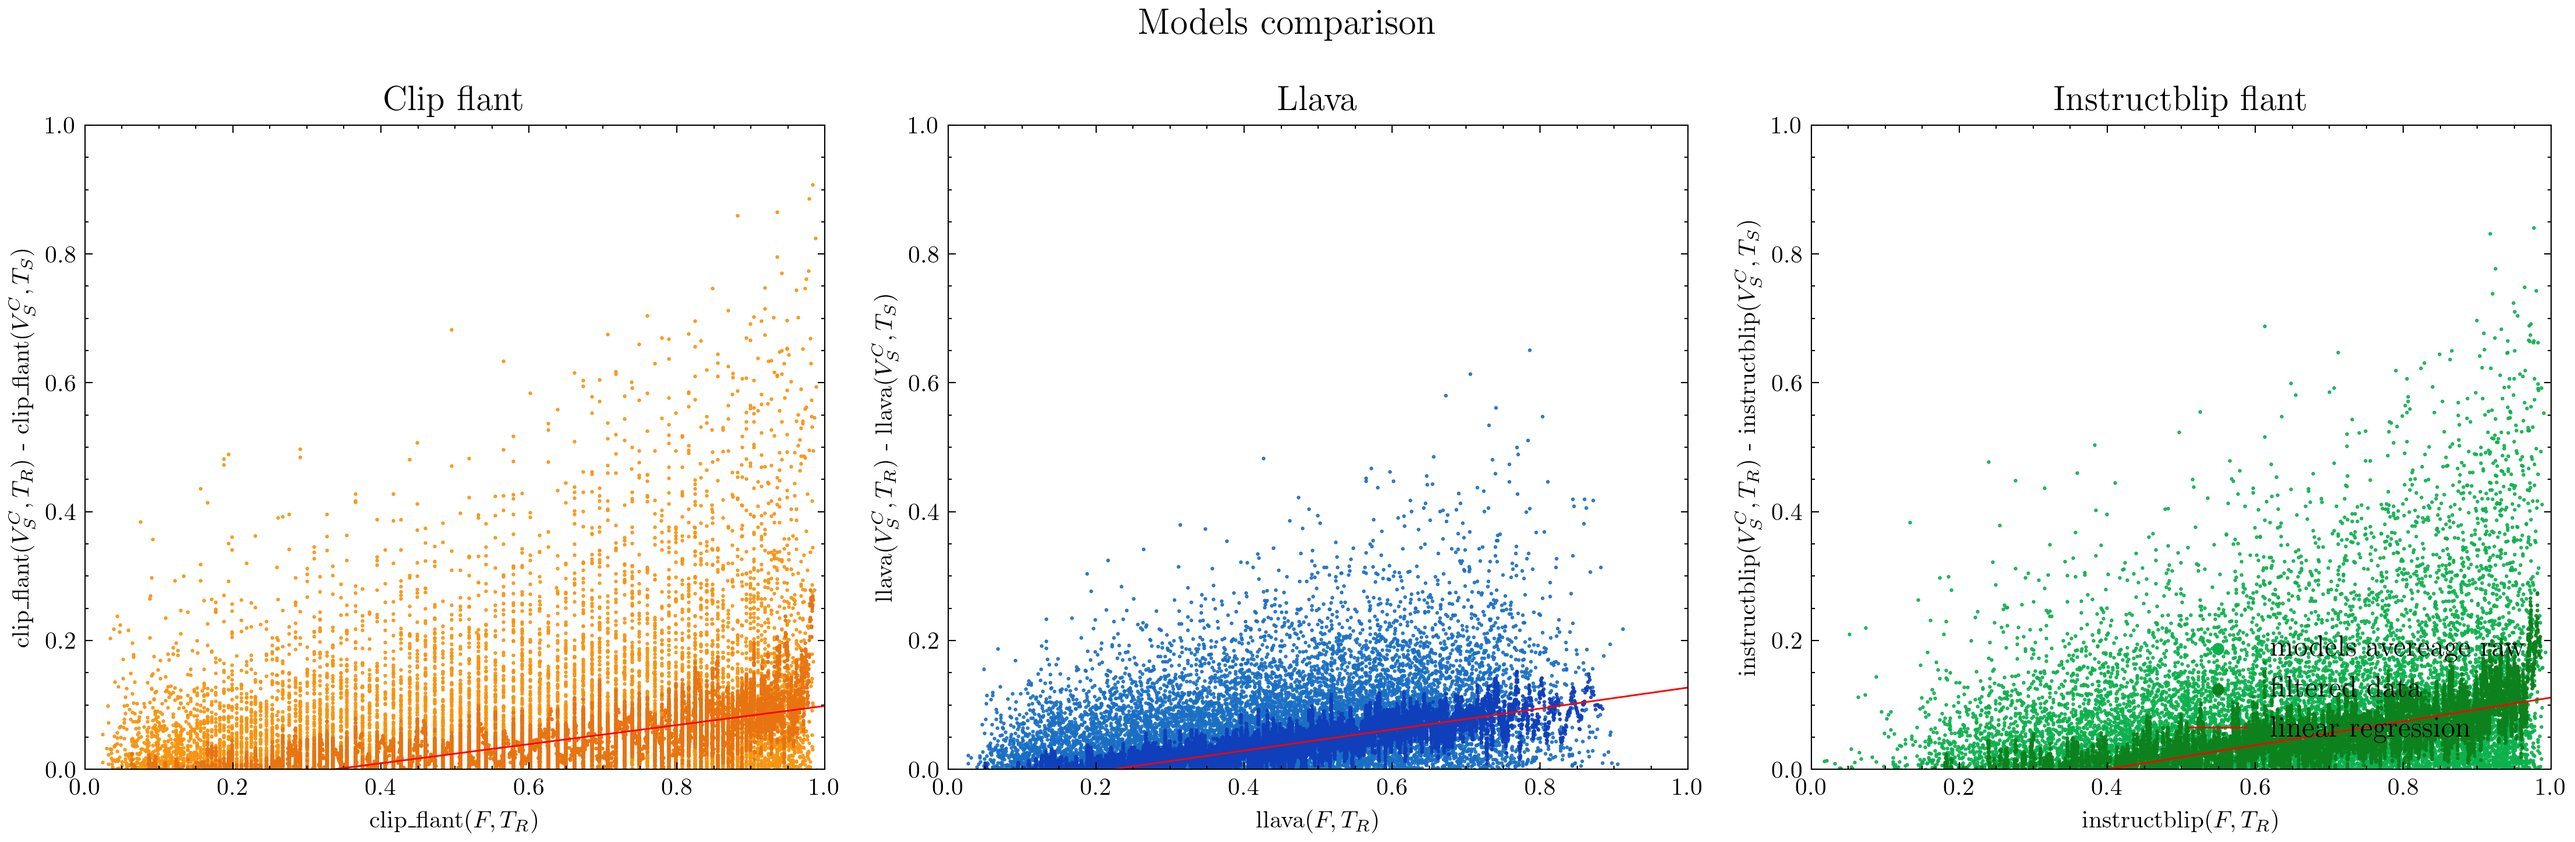
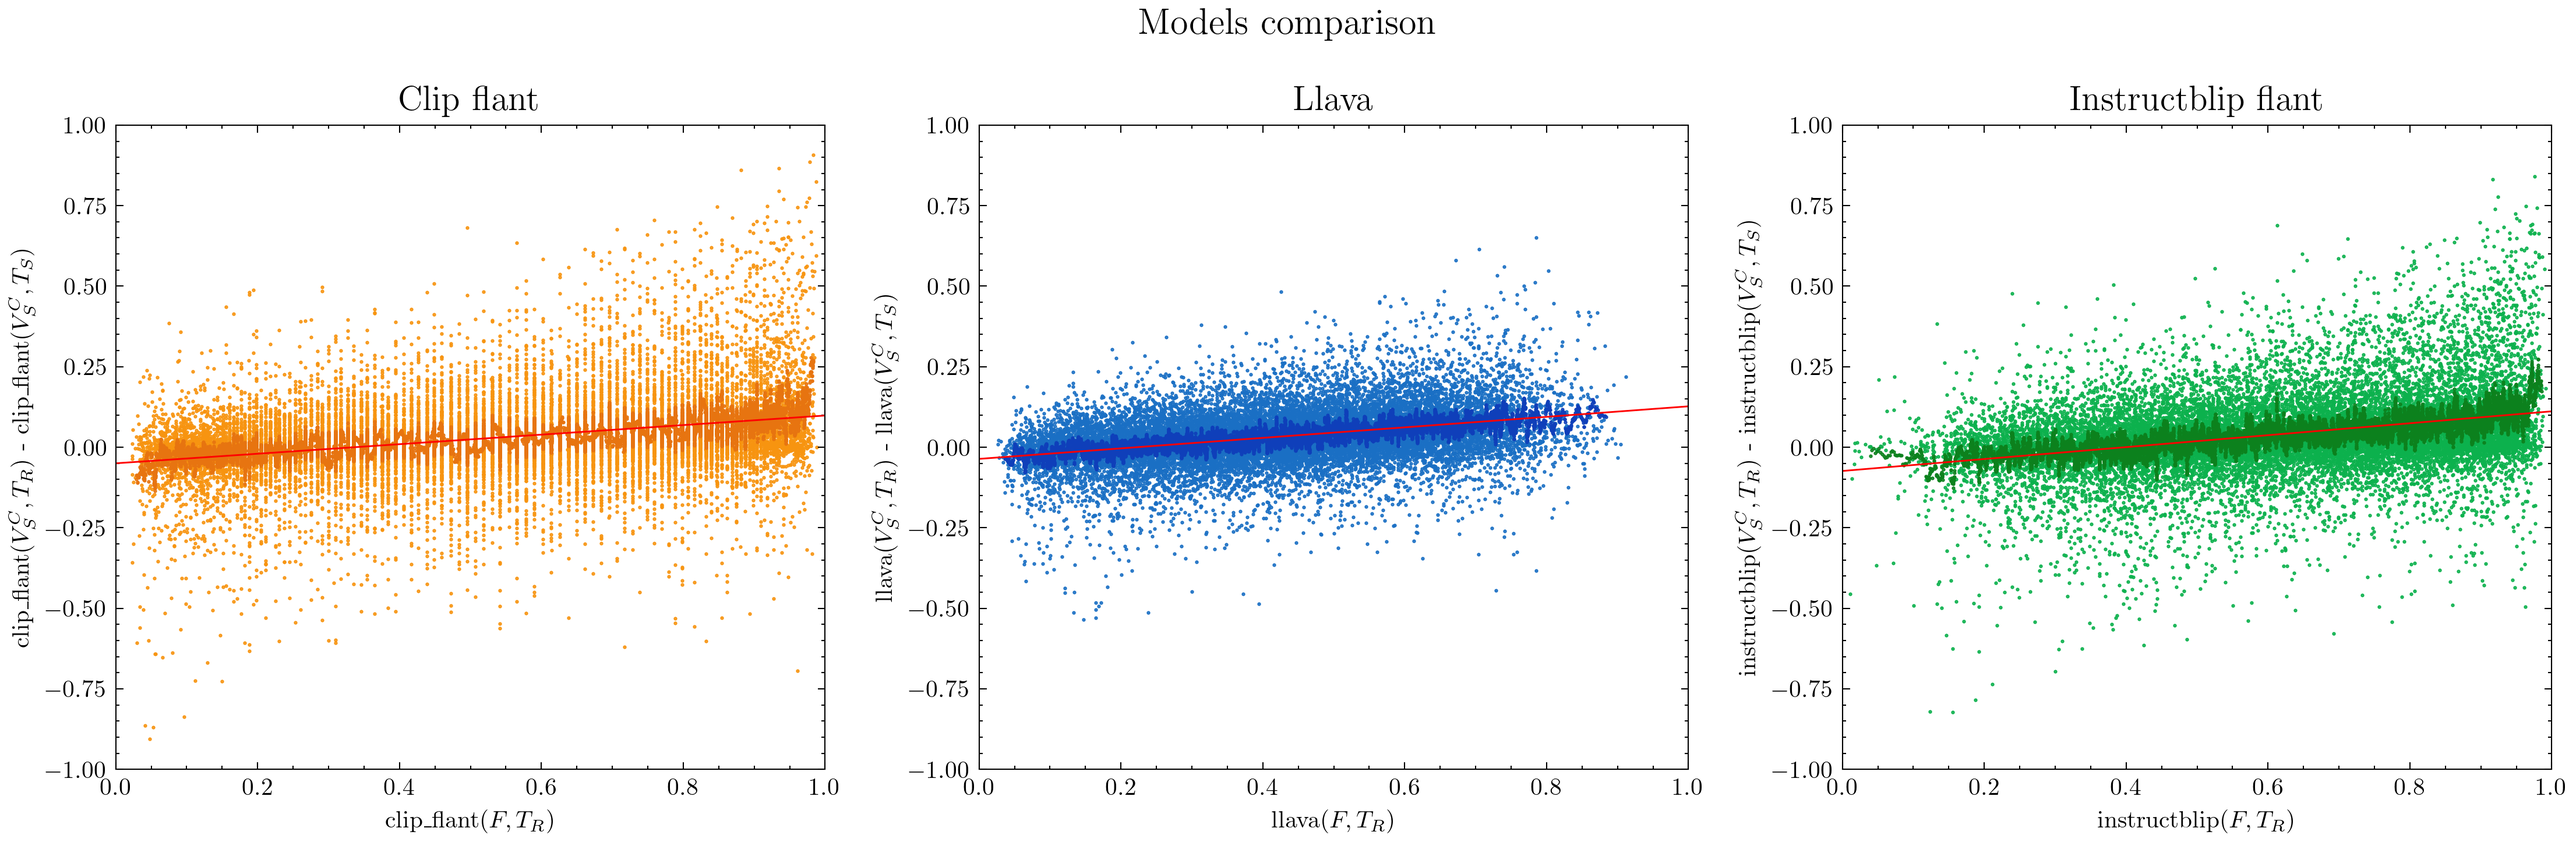
altre appendici yay

diff --git a/plottings/PerLaTesi/Appendici/D/D4.py b/plottings/PerLaTesi/Appendici/D/D4.py
@@ -27,6 +27,10 @@ df[f'D(mean(Vu,R),mean(Vu,S))'] = df[f'mean(Vu,R)'] - df[f'mean(Vu,S)']
 df[f'D(mean(Vu,S),mean(Vc,S))'] = df[f'mean(Vu,S)'] - df[f'mean(Vc,S)']
 df[f'D(mean(Vu,R),mean(Vc,R))'] = df[f'mean(Vu,R)'] - df[f'mean(Vc,R)']
 
+df[f'D(clip_flant(Vc_mean,R),clip_flant(Vc_mean,S))'] = df[f'clip_flant(Vc_mean,R)'] - df[f'clip_flant(Vc_mean,S)']
+df[f'D(llava(Vc_mean,R),llava(Vc_mean,S))'] = df[f'llava(Vc_mean,R)'] - df[f'llava(Vc_mean,S)']
+df[f'D(instructblip(Vc_mean,R),instructblip(Vc_mean,S))'] = df[f'instructblip(Vc_mean,R)'] - df[f'instructblip(Vc_mean,S)']
+
 def filter(df,val,x,y):
     a = pd.DataFrame()
     c = 0
@@ -43,10 +47,9 @@ def filter(df,val,x,y):
             a = pd.concat([a, pd.DataFrame([{x:  b1/val,y: b2/val}])],ignore_index=True)
     return a
 
-a = filter(df,23,'clip_flant(F,R)','clip_flant(Vc_mean,S)')
-b = filter(df,23,'llava(F,R)','llava(Vc_mean,S)')
-c = filter(df,23,'instructblip(F,R)','instructblip(Vc_mean,S)')
-
+a = filter(df,23,'clip_flant(F,S)','D(clip_flant(Vc_mean,R),clip_flant(Vc_mean,S))')
+b = filter(df,23,'llava(F,S)','D(llava(Vc_mean,R),llava(Vc_mean,S))')
+c = filter(df,23,'instructblip(F,S)','D(instructblip(Vc_mean,R),instructblip(Vc_mean,S))')
 size = 1
 transparency = 1  # df[y]
 
@@ -55,46 +58,44 @@ plt.rcParams.update({'font.size': 12})
 
 fig.suptitle('Models comparison', fontsize=15)
 
-ax[0].scatter(df['clip_flant(F,R)'], df['clip_flant(Vc_mean,S)'], c='#f79410',marker='.', s=size, alpha=transparency, label='models avereage raw')
-ax[0].scatter(a['clip_flant(F,R)'], a['clip_flant(Vc_mean,S)'], c='#e77410',marker='.', s=size, alpha=transparency, label='filtered data')
-ax[0].set_xlabel('clip_flant($F,T_R$)')
-ax[0].set_ylabel('clip_flant($V_S^C,T_S$)')
+ax[0].scatter(df['clip_flant(F,S)'], df['D(clip_flant(Vc_mean,R),clip_flant(Vc_mean,S))'], c='#f79410',marker='.', s=size, alpha=transparency, label='models avereage raw')
+ax[0].scatter(a['clip_flant(F,S)'], a['D(clip_flant(Vc_mean,R),clip_flant(Vc_mean,S))'], c='#e77410',marker='.', s=size, alpha=transparency, label='filtered data')
+ax[0].set_xlabel('clip_flant($F,T_S$)')
+ax[0].set_ylabel('clip_flant($V_S^C,T_R$) - clip_flant($V_S^C,T_S$)')
 ax[0].set_title('Clip flant')
 ax[0].set_xlim([0,1])
-ax[0].set_ylim([0,1])
-z = np.polyfit(df['clip_flant(F,R)'], df['clip_flant(Vc_mean,S)'], 1)
+ax[0].set_ylim([-1,1])
+z = np.polyfit(df['clip_flant(F,S)'], df['D(clip_flant(Vc_mean,R),clip_flant(Vc_mean,S))'], 1)
 p = np.poly1d(z)
 xs = np.linspace(0, 1, 10000)
 ax[0].plot(xs, p(xs), "r-",linewidth=0.7, label='linear regression')
-ax[0].legend(markerscale=8, ncol=1, loc=2)
 
-ax[1].scatter(df['llava(F,R)'], df['llava(Vc_mean,S)'], c='#1a6fc4',marker='.', s=size, alpha=transparency, label='models avereage raw')
-ax[1].scatter(b['llava(F,R)'], b['llava(Vc_mean,S)'], c='#0f3fba',marker='.', s=size, alpha=transparency, label='filtered data')
-ax[1].set_xlabel('llava($F,T_R$)')
-ax[1].set_ylabel('llava($V_S^C,T_S$)')
+
+ax[1].scatter(df['llava(F,S)'], df['D(llava(Vc_mean,R),llava(Vc_mean,S))'], c='#1a6fc4',marker='.', s=size, alpha=transparency, label='models avereage raw')
+ax[1].scatter(b['llava(F,S)'], b['D(llava(Vc_mean,R),llava(Vc_mean,S))'], c='#0f3fba',marker='.', s=size, alpha=transparency, label='filtered data')
+ax[1].set_xlabel('llava($F,T_S$)')
+ax[1].set_ylabel('llava($V_S^C,T_R$) - llava($V_S^C,T_S$)')
 ax[1].set_title('Llava')
 ax[1].set_xlim([0,1])
-ax[1].set_ylim([0,1])
-z = np.polyfit(df['llava(F,R)'], df['llava(Vc_mean,S)'], 1)
+ax[1].set_ylim([-1,1])
+z = np.polyfit(df['llava(F,S)'], df['D(llava(Vc_mean,R),llava(Vc_mean,S))'], 1)
 p = np.poly1d(z)
 ax[1].plot(xs, p(xs), "r-",linewidth=0.7, label='linear regression')
-ax[1].legend(markerscale=8, ncol=1, loc=2)
 
-ax[2].scatter(df['instructblip(F,R)'], df['instructblip(Vc_mean,S)'], c='#0cb14d',marker='.', s=size, alpha=transparency, label='models avereage raw')
-ax[2].scatter(c['instructblip(F,R)'], c['instructblip(Vc_mean,S)'], c='#0c811d',marker='.', s=size, alpha=transparency, label='filtered data')
-ax[2].set_xlabel('instructblip($F,T_R$)')
-ax[2].set_ylabel('instructblip($V_S^C,T_S$)')
+ax[2].scatter(df['instructblip(F,S)'], df['D(instructblip(Vc_mean,R),instructblip(Vc_mean,S))'], c='#0cb14d',marker='.', s=size, alpha=transparency, label='models avereage raw')
+ax[2].scatter(c['instructblip(F,S)'], c['D(instructblip(Vc_mean,R),instructblip(Vc_mean,S))'], c='#0c811d',marker='.', s=size, alpha=transparency, label='filtered data')
+ax[2].set_xlabel('instructblip($F,T_S$)')
+ax[2].set_ylabel('instructblip($V_S^C,T_R$) - instructblip($V_S^C,T_S$)')
 ax[2].set_title('Instructblip flant')
 ax[2].set_xlim([0,1])
-ax[2].set_ylim([0,1])
-z = np.polyfit(df['instructblip(F,R)'], df['instructblip(Vc_mean,S)'], 1)
+ax[2].set_ylim([-1,1])
+z = np.polyfit(df['instructblip(F,S)'], df['D(instructblip(Vc_mean,R),instructblip(Vc_mean,S))'], 1)
 p = np.poly1d(z)
 ax[2].plot(xs, p(xs), "r-",linewidth=0.7, label='linear regression')
-ax[2].legend(markerscale=8, ncol=1, loc=2)
 
 fig.set_tight_layout(tight=True)
 
-plt.savefig(f'C2_models_comparison.png', dpi=300)
-plt.clf()
+#plt.legend(markerscale=8, ncol=1, loc=4)
 
-matplotlib.pyplot.close()
+plt.savefig(f'D4_models_comparison_FS.png', dpi=300)
+plt.clf()

diff --git a/plottings/PerLaTesi/Appendici/D/D3.py b/plottings/PerLaTesi/Appendici/D/D3.py
@@ -27,6 +27,11 @@ df[f'D(mean(Vu,R),mean(Vu,S))'] = df[f'mean(Vu,R)'] - df[f'mean(Vu,S)']
 df[f'D(mean(Vu,S),mean(Vc,S))'] = df[f'mean(Vu,S)'] - df[f'mean(Vc,S)']
 df[f'D(mean(Vu,R),mean(Vc,R))'] = df[f'mean(Vu,R)'] - df[f'mean(Vc,R)']
 
+b = pd.DataFrame()
+for index,row in df.iterrows():
+    if row['D(mean_wv(Vc,R),mean_wv(Vc,S))'] > 0:
+        b = pd.concat([b, pd.DataFrame([{'mean_wv(F,S)':row['mean_wv(F,S)'],'mean_wv(F,R)':row['mean_wv(F,R)'],'D(mean_wv(Vc,R),mean_wv(Vc,S))':row['D(mean_wv(Vc,R),mean_wv(Vc,S))']}])], ignore_index=True)
+
 def filter(df,val,x,y):
     a = pd.DataFrame()
     c = 0
@@ -43,58 +48,44 @@ def filter(df,val,x,y):
             a = pd.concat([a, pd.DataFrame([{x:  b1/val,y: b2/val}])],ignore_index=True)
     return a
 
-a = filter(df,23,'clip_flant(F,R)','clip_flant(Vc_mean,S)')
-b = filter(df,23,'llava(F,R)','llava(Vc_mean,S)')
-c = filter(df,23,'instructblip(F,R)','instructblip(Vc_mean,S)')
-
+a = filter(b,23,'mean_wv(F,R)','D(mean_wv(Vc,R),mean_wv(Vc,S))')
+c = filter(b,23,'mean_wv(F,S)','D(mean_wv(Vc,R),mean_wv(Vc,S))')
 size = 1
-transparency = 1  # df[y]
+transparency = 1
 
-fig, ax = plt.subplots(1, 3, figsize=(15, 5))
+fig, ax = plt.subplots(1, 2, figsize=(10, 5))
 plt.rcParams.update({'font.size': 12})
 
-fig.suptitle('Models comparison', fontsize=15)
+fig.suptitle('Mirrored trend when ordered by $T_S$', fontsize=15)
 
-ax[0].scatter(df['clip_flant(F,R)'], df['clip_flant(Vc_mean,S)'], c='#f79410',marker='.', s=size, alpha=transparency, label='models avereage raw')
-ax[0].scatter(a['clip_flant(F,R)'], a['clip_flant(Vc_mean,S)'], c='#e77410',marker='.', s=size, alpha=transparency, label='filtered data')
-ax[0].set_xlabel('clip_flant($F,T_R$)')
-ax[0].set_ylabel('clip_flant($V_S^C,T_S$)')
-ax[0].set_title('Clip flant')
+ax[0].scatter(df['mean_wv(F,R)'], df['D(mean_wv(Vc,R),mean_wv(Vc,S))'], c='#7d5f8d',marker='.', s=size, alpha=transparency, label='models avereage raw')
+ax[0].scatter(a['mean_wv(F,R)'], a['D(mean_wv(Vc,R),mean_wv(Vc,S))'], c='#00D7D7',marker='.', s=size, alpha=transparency, label='filtered data')
+ax[0].set_xlabel('models_average($F,T_R$)')
+ax[0].set_ylabel('models_average($V_S^C,T_R$) - models_average($V_S^C,T_S$)')
+ax[0].set_title('ordered by alignment with $T_R$')
 ax[0].set_xlim([0,1])
 ax[0].set_ylim([0,1])
-z = np.polyfit(df['clip_flant(F,R)'], df['clip_flant(Vc_mean,S)'], 1)
+z = np.polyfit(b['mean_wv(F,R)'], b['D(mean_wv(Vc,R),mean_wv(Vc,S))'], 1)
 p = np.poly1d(z)
 xs = np.linspace(0, 1, 10000)
 ax[0].plot(xs, p(xs), "r-",linewidth=0.7, label='linear regression')
-ax[0].legend(markerscale=8, ncol=1, loc=2)
 
-ax[1].scatter(df['llava(F,R)'], df['llava(Vc_mean,S)'], c='#1a6fc4',marker='.', s=size, alpha=transparency, label='models avereage raw')
-ax[1].scatter(b['llava(F,R)'], b['llava(Vc_mean,S)'], c='#0f3fba',marker='.', s=size, alpha=transparency, label='filtered data')
-ax[1].set_xlabel('llava($F,T_R$)')
-ax[1].set_ylabel('llava($V_S^C,T_S$)')
-ax[1].set_title('Llava')
+
+ax[1].scatter(df['mean_wv(F,S)'], df['D(mean_wv(Vc,R),mean_wv(Vc,S))'], c='#7d5f8d',marker='.', s=size, alpha=transparency, label='models avereage raw')
+ax[1].scatter(c['mean_wv(F,S)'], c['D(mean_wv(Vc,R),mean_wv(Vc,S))'], c='#00D7D7',marker='.', s=size, alpha=transparency, label='filtered data')
+ax[1].set_xlabel('models_average($F,T_S$)')
+ax[1].set_ylabel('models_average($V_S^C,T_R$) - models_average($V_S^C,T_S$)')
+ax[1].set_title('ordered by alignment with $T_S$')
 ax[1].set_xlim([0,1])
 ax[1].set_ylim([0,1])
-z = np.polyfit(df['llava(F,R)'], df['llava(Vc_mean,S)'], 1)
+z = np.polyfit(b['mean_wv(F,S)'], b['D(mean_wv(Vc,R),mean_wv(Vc,S))'], 1)
 p = np.poly1d(z)
 ax[1].plot(xs, p(xs), "r-",linewidth=0.7, label='linear regression')
-ax[1].legend(markerscale=8, ncol=1, loc=2)
 
-ax[2].scatter(df['instructblip(F,R)'], df['instructblip(Vc_mean,S)'], c='#0cb14d',marker='.', s=size, alpha=transparency, label='models avereage raw')
-ax[2].scatter(c['instructblip(F,R)'], c['instructblip(Vc_mean,S)'], c='#0c811d',marker='.', s=size, alpha=transparency, label='filtered data')
-ax[2].set_xlabel('instructblip($F,T_R$)')
-ax[2].set_ylabel('instructblip($V_S^C,T_S$)')
-ax[2].set_title('Instructblip flant')
-ax[2].set_xlim([0,1])
-ax[2].set_ylim([0,1])
-z = np.polyfit(df['instructblip(F,R)'], df['instructblip(Vc_mean,S)'], 1)
-p = np.poly1d(z)
-ax[2].plot(xs, p(xs), "r-",linewidth=0.7, label='linear regression')
-ax[2].legend(markerscale=8, ncol=1, loc=2)
 
 fig.set_tight_layout(tight=True)
 
-plt.savefig(f'C2_models_comparison.png', dpi=300)
-plt.clf()
+#plt.legend(markerscale=8, ncol=1, loc=4)
 
-matplotlib.pyplot.close()
+plt.savefig(f'D3_mirrored_trend.png', dpi=300)
+plt.clf()

diff --git a/plottings/PerLaTesi/Appendici/E/E1.py b/plottings/PerLaTesi/Appendici/E/E1.py
@@ -43,58 +43,42 @@ def filter(df,val,x,y):
             a = pd.concat([a, pd.DataFrame([{x:  b1/val,y: b2/val}])],ignore_index=True)
     return a
 
-a = filter(df,23,'clip_flant(F,R)','clip_flant(Vc_mean,S)')
-b = filter(df,23,'llava(F,R)','llava(Vc_mean,S)')
-c = filter(df,23,'instructblip(F,R)','instructblip(Vc_mean,S)')
-
+a = filter(df,23,'D(mean_wv(F,R),mean_wv(F,S))','mean_wv(Vc,R)')
+b = filter(df,23,'D(mean_wv(F,R),mean_wv(F,S))','mean_wv(Vc,S)')
 size = 1
-transparency = 1  # df[y]
+transparency = 1
 
-fig, ax = plt.subplots(1, 3, figsize=(15, 5))
+fig, ax = plt.subplots(1, 2, figsize=(10, 5))
 plt.rcParams.update({'font.size': 12})
 
-fig.suptitle('Models comparison', fontsize=15)
+fig.suptitle('The effects of conditional generation seen from the difference of entailments of the frame', fontsize=15)
 
-ax[0].scatter(df['clip_flant(F,R)'], df['clip_flant(Vc_mean,S)'], c='#f79410',marker='.', s=size, alpha=transparency, label='models avereage raw')
-ax[0].scatter(a['clip_flant(F,R)'], a['clip_flant(Vc_mean,S)'], c='#e77410',marker='.', s=size, alpha=transparency, label='filtered data')
-ax[0].set_xlabel('clip_flant($F,T_R$)')
-ax[0].set_ylabel('clip_flant($V_S^C,T_S$)')
-ax[0].set_title('Clip flant')
-ax[0].set_xlim([0,1])
+ax[0].scatter(df['D(mean_wv(F,R),mean_wv(F,S))'], df['mean_wv(Vc,R)'], c='#7d5f8d',marker='.', s=size, alpha=transparency, label='models avereage raw')
+ax[0].scatter(a['D(mean_wv(F,R),mean_wv(F,S))'], a['mean_wv(Vc,R)'], c='#00D7D7',marker='.', s=size, alpha=transparency, label='filtered data')
+ax[0].set_xlabel('models_average($F,T_R$) - models_average($F,T_S$)')
+ax[0].set_ylabel('models_average($V_S^C,T_R$)')
+ax[0].set_xlim([-1,1])
 ax[0].set_ylim([0,1])
-z = np.polyfit(df['clip_flant(F,R)'], df['clip_flant(Vc_mean,S)'], 1)
+z = np.polyfit(df['D(mean_wv(F,R),mean_wv(F,S))'], df['mean_wv(Vc,R)'], 1)
 p = np.poly1d(z)
-xs = np.linspace(0, 1, 10000)
+xs = np.linspace(-1, 1, 10000)
 ax[0].plot(xs, p(xs), "r-",linewidth=0.7, label='linear regression')
-ax[0].legend(markerscale=8, ncol=1, loc=2)
 
-ax[1].scatter(df['llava(F,R)'], df['llava(Vc_mean,S)'], c='#1a6fc4',marker='.', s=size, alpha=transparency, label='models avereage raw')
-ax[1].scatter(b['llava(F,R)'], b['llava(Vc_mean,S)'], c='#0f3fba',marker='.', s=size, alpha=transparency, label='filtered data')
-ax[1].set_xlabel('llava($F,T_R$)')
-ax[1].set_ylabel('llava($V_S^C,T_S$)')
-ax[1].set_title('Llava')
-ax[1].set_xlim([0,1])
+
+ax[1].scatter(df['D(mean_wv(F,R),mean_wv(F,S))'], df['mean_wv(Vc,S)'], c='#7d5f8d',marker='.', s=size, alpha=transparency, label='models avereage raw')
+ax[1].scatter(b['D(mean_wv(F,R),mean_wv(F,S))'], b['mean_wv(Vc,S)'], c='#00D7D7',marker='.', s=size, alpha=transparency, label='filtered data')
+ax[1].set_xlabel('models_average($F,T_R$) - models_average($F,T_S$)')
+ax[1].set_ylabel('models_average($V_S^C,T_S$)')
+ax[1].set_xlim([-1,1])
 ax[1].set_ylim([0,1])
-z = np.polyfit(df['llava(F,R)'], df['llava(Vc_mean,S)'], 1)
+z = np.polyfit(df['D(mean_wv(F,R),mean_wv(F,S))'], df['mean_wv(Vc,S)'], 1)
 p = np.poly1d(z)
 ax[1].plot(xs, p(xs), "r-",linewidth=0.7, label='linear regression')
-ax[1].legend(markerscale=8, ncol=1, loc=2)
 
-ax[2].scatter(df['instructblip(F,R)'], df['instructblip(Vc_mean,S)'], c='#0cb14d',marker='.', s=size, alpha=transparency, label='models avereage raw')
-ax[2].scatter(c['instructblip(F,R)'], c['instructblip(Vc_mean,S)'], c='#0c811d',marker='.', s=size, alpha=transparency, label='filtered data')
-ax[2].set_xlabel('instructblip($F,T_R$)')
-ax[2].set_ylabel('instructblip($V_S^C,T_S$)')
-ax[2].set_title('Instructblip flant')
-ax[2].set_xlim([0,1])
-ax[2].set_ylim([0,1])
-z = np.polyfit(df['instructblip(F,R)'], df['instructblip(Vc_mean,S)'], 1)
-p = np.poly1d(z)
-ax[2].plot(xs, p(xs), "r-",linewidth=0.7, label='linear regression')
-ax[2].legend(markerscale=8, ncol=1, loc=2)
 
 fig.set_tight_layout(tight=True)
 
-plt.savefig(f'C2_models_comparison.png', dpi=300)
-plt.clf()
+#plt.legend(markerscale=8, ncol=1, loc=4)
 
-matplotlib.pyplot.close()
+plt.savefig(f'E1.png', dpi=300)
+plt.clf()

diff --git a/plottings/PerLaTesi/Appendici/D/D2.py b/plottings/PerLaTesi/Appendici/D/D2.py
@@ -64,7 +64,7 @@ ax[0].set_xlabel('clip_flant($F,T_R$)')
 ax[0].set_ylabel('clip_flant($V_S^C,T_R$) - clip_flant($V_S^C,T_S$)')
 ax[0].set_title('Clip flant')
 ax[0].set_xlim([0,1])
-ax[0].set_ylim([0,1])
+ax[0].set_ylim([-1,1])
 z = np.polyfit(df['clip_flant(F,R)'], df['D(clip_flant(Vc_mean,R),clip_flant(Vc_mean,S))'], 1)
 p = np.poly1d(z)
 xs = np.linspace(0, 1, 10000)
@@ -77,7 +77,7 @@ ax[1].set_xlabel('llava($F,T_R$)')
 ax[1].set_ylabel('llava($V_S^C,T_R$) - llava($V_S^C,T_S$)')
 ax[1].set_title('Llava')
 ax[1].set_xlim([0,1])
-ax[1].set_ylim([0,1])
+ax[1].set_ylim([-1,1])
 z = np.polyfit(df['llava(F,R)'], df['D(llava(Vc_mean,R),llava(Vc_mean,S))'], 1)
 p = np.poly1d(z)
 ax[1].plot(xs, p(xs), "r-",linewidth=0.7, label='linear regression')
@@ -88,14 +88,14 @@ ax[2].set_xlabel('instructblip($F,T_R$)')
 ax[2].set_ylabel('instructblip($V_S^C,T_R$) - instructblip($V_S^C,T_S$)')
 ax[2].set_title('Instructblip flant')
 ax[2].set_xlim([0,1])
-ax[2].set_ylim([0,1])
+ax[2].set_ylim([-1,1])
 z = np.polyfit(df['instructblip(F,R)'], df['D(instructblip(Vc_mean,R),instructblip(Vc_mean,S))'], 1)
 p = np.poly1d(z)
 ax[2].plot(xs, p(xs), "r-",linewidth=0.7, label='linear regression')
 
 fig.set_tight_layout(tight=True)
 
-plt.legend(markerscale=8, ncol=1, loc=4)
+#plt.legend(markerscale=8, ncol=1, loc=4)
 
 plt.savefig(f'D2_models_comparison.png', dpi=300)
 plt.clf()

diff --git a/plottings/PerLaTesi/6.py b/plottings/PerLaTesi/6.py
@@ -68,8 +68,8 @@ ax[0].set_xlim([-1,1])
 ax[0].set_ylim([-1,1])
 ax[0].legend(markerscale=10, ncol=1, loc=2)
 
-ax[1].scatter(df['D(mean_wv(F,R),mean_wv(F,S))'], df['D(mean_wv(Vu,R),mean_wv(Vu,S))'], c='#ed6a28',marker='.', s=size, alpha=transparency, label='models average raw')
-ax[1].scatter(b['D(mean_wv(F,R),mean_wv(F,S))'], b['D(mean_wv(Vu,R),mean_wv(Vu,S))'], c='#94ed28',marker='.', s=size, alpha=transparency, label='filtered')
+ax[1].scatter(df['D(mean_wv(F,R),mean_wv(F,S))'], df['D(mean_wv(Vu,R),mean_wv(Vu,S))'], c='#7d5f8d',marker='.', s=size, alpha=transparency, label='models average raw')
+ax[1].scatter(b['D(mean_wv(F,R),mean_wv(F,S))'], b['D(mean_wv(Vu,R),mean_wv(Vu,S))'], c='#00D7D7',marker='.', s=size, alpha=transparency, label='filtered')
 ax[1].set_xlabel('models_average($F,T_R$) - models_average($F,T_S$)')
 ax[1].set_ylabel('models_average($V_S^U,T_R$) - models_average($V_S^U,T_S$)')
 ax[1].set_title('Unconditioned')
